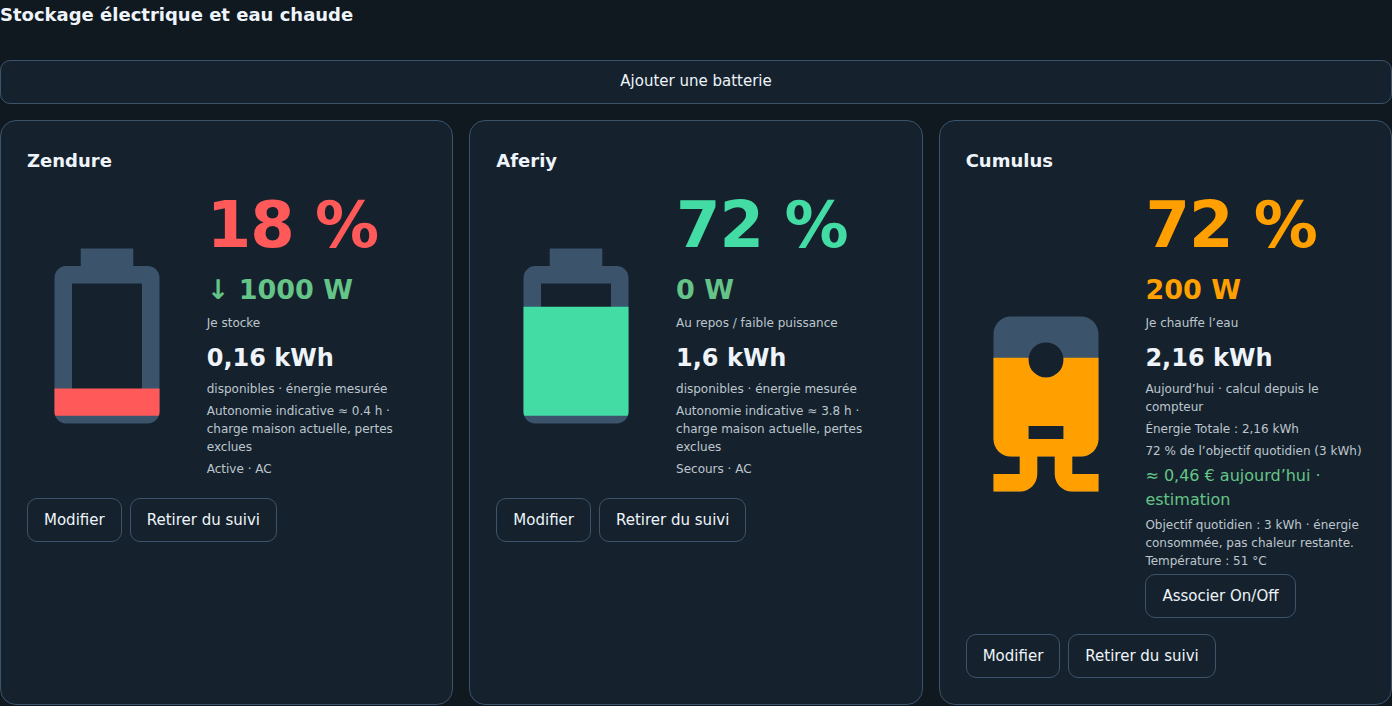
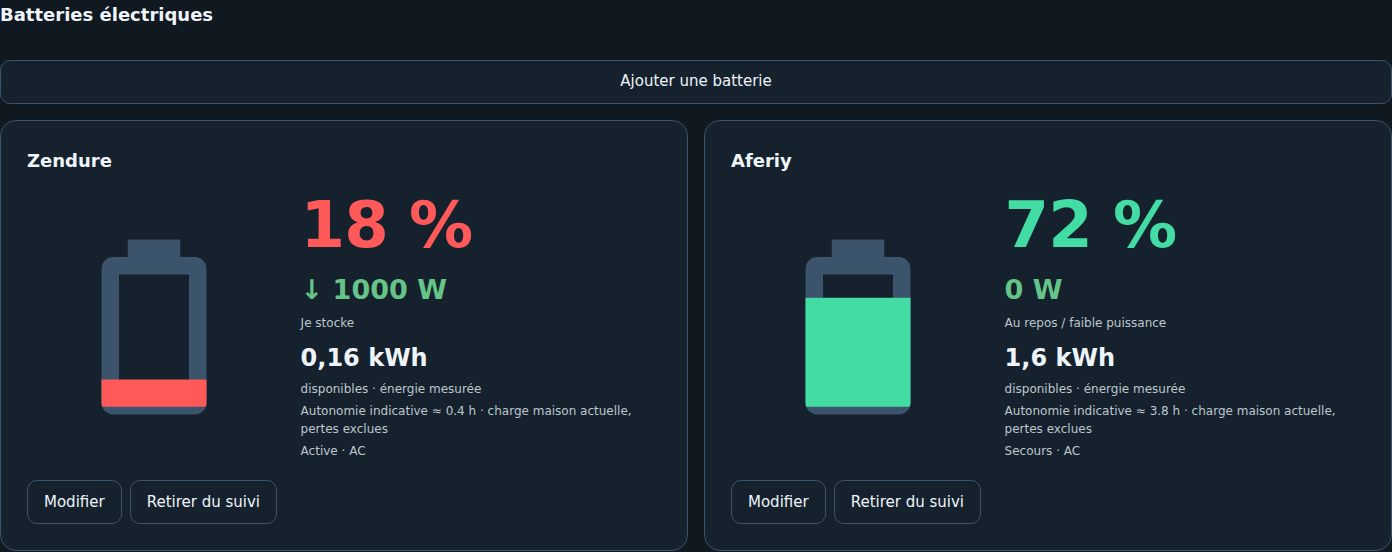
Release 0.2.5: temperature helpers and electrical-only storage
Accept input_number temperature sources with Celsius/Fahrenheit units; keep the water heater in Usages and show only electrical batteries in Storage. Python, frontend, desktop/mobile and real HA test steps passed. Release publication remains gated by the main branch package workflow.

diff --git a/tests/fixtures/panel.html b/tests/fixtures/panel.html
@@ -2,7 +2,7 @@
 <html lang="fr"><meta charset="utf-8"><meta name="viewport" content="width=device-width,initial-scale=1">
 <title>eHome EMS — fixture simulée</title><style>html{background:#101820}html,body{margin:0;min-height:100%;--primary-background-color:#101820;--primary-text-color:#eef4fa;--card-background-color:#15222d;--divider-color:#3b536b;--primary-color:#70a246;--text-primary-color:#fff}</style>
 <script>customElements.define("ehome-ems-panel",class extends HTMLElement{});</script>
-<ehome-ems-panel-0-2-4></ehome-ems-panel-0-2-4>
+<ehome-ems-panel-0-2-5></ehome-ems-panel-0-2-5>
 <script type="module">
 import "../../custom_components/ehome_ems/frontend/ehome-panel.mjs";
 const icons=await (await fetch("./mdi.json")).json();
@@ -62,7 +62,7 @@ window.fixtureHass={
  callWS:async message=>{
   window.calls.push(message);
   if(message.type==="ehome_ems/dashboard")return {
-    dashboard:structuredClone(dashboard),missing_entities:[],bindings:structuredClone(bindings),revision,flow:window.omitFlow?undefined:flow,version:"0.2.4",settings:structuredClone(settings),time_zone:"Europe/Paris",weather_entity:"weather.home",daily:{solar:"sensor.daily_pv",home:"sensor.daily_home",import:"sensor.daily_import",export:"sensor.daily_export"},tariff_eur_kwh:.215,simulation:structuredClone(simulation),simulation_history:structuredClone(simulation_history)};
+    dashboard:structuredClone(dashboard),missing_entities:[],bindings:structuredClone(bindings),revision,flow:window.omitFlow?undefined:flow,version:"0.2.5",settings:structuredClone(settings),time_zone:"Europe/Paris",weather_entity:"weather.home",daily:{solar:"sensor.daily_pv",home:"sensor.daily_home",import:"sensor.daily_import",export:"sensor.daily_export"},tariff_eur_kwh:.215,simulation:structuredClone(simulation),simulation_history:structuredClone(simulation_history)};
   if(message.type==="ehome_ems/manage_settings"){
     if(!fixtureHass.user.is_admin)throw {code:"unauthorized"};
     const key=message.identifier||"new-appliance";
@@ -119,6 +119,8 @@ window.fixtureHass={
   return {id:"simulated-copy"};
  }
 };
+fixtureHass.states["input_number.demo_water_max"]={state:"57",attributes:{unit_of_measurement:"°C",friendly_name:"Maximum eau du jour simulé"}};
+fixtureHass.states["input_number.demo_wrong_unit"]={state:"57",attributes:{unit_of_measurement:"W"}};
 fixtureHass.states["sensor.pv_source"]={state:"1500",attributes:{unit_of_measurement:"W",friendly_name:"Source solaire"}};
 fixtureHass.states["sensor.pv_alternative"]={state:"2000",attributes:{unit_of_measurement:"W",friendly_name:"Source alternative"}};
 for(const [id,value] of Object.entries({import:0,export:75,charge:1000,discharge:0,cumulus:200}))
@@ -131,7 +133,7 @@ fixtureHass.states["sensor.ac"]={state:"unavailable",attributes:{unit_of_measure
 fixtureHass.states["weather.home"]={state:"cloudy",attributes:{friendly_name:"Maison météo",temperature:16,temperature_unit:"°C",precipitation_unit:"mm",supported_features:1}};
 fixtureHass.states["switch.fridge"]={state:"on",attributes:{friendly_name:"Commande frigo simulée"}};
 for(const [id,value,unit] of [["pv_device",500,"W"],["pv_device_energy",1002.1,"kWh"],["pv_dc",550,"W"],["router_power",200,"W"]])fixtureHass.states["sensor."+id]={state:String(value),attributes:{unit_of_measurement:unit}};
-window.fixturePanel=document.querySelector("ehome-ems-panel-0-2-4");
+window.fixturePanel=document.querySelector("ehome-ems-panel-0-2-5");
 fixturePanel.hass=fixtureHass;fixturePanel.panel={config:{entry_id:"simulated",revision:"one"}};
 for(const [id,state,unit] of [["native_connection","online",""],["native_status","auto",""],["native_opening","50","%"],["native_force","0","min"],["native_power","800","W"]])fixtureHass.states["sensor."+id]={state,attributes:{unit_of_measurement:unit}};
 </script></html>

diff --git a/scripts/validate_home_assistant.py b/scripts/validate_home_assistant.py
@@ -66,11 +66,13 @@ async def validate(config_dir):
         hass.states.async_set("sensor.sim_router_power", "350", {"unit_of_measurement": "W", "device_class": "power"})
         hass.states.async_set("sensor.sim_router_energy", "1250", {"unit_of_measurement": "Wh", "device_class": "energy"})
         hass.states.async_set("switch.sim_router", "on")
+        hass.states.async_set("input_number.sim_water_max", "51", {"unit_of_measurement":"°C"})
         result = await hass.config_entries.flow.async_configure(flow_id, {"next_step_id": "add_usage"})
         json.dumps(to_field_list(result["data_schema"], custom_serializer=cv.custom_serializer))
         result = await hass.config_entries.flow.async_configure(flow_id, {
             "name": "Simulated router", "kind": "solar_router", "power": "sensor.sim_router_power",
             "energy": "sensor.sim_router_energy", "energy_period": "today", "status": "switch.sim_router",
+            "temperature": "input_number.sim_water_max",
             "included_in_home": True,
         })
         assert result["step_id"] == "usages", result
@@ -123,6 +125,17 @@ async def validate(config_dir):
         assert float(mirror(f"usage_{appliance_id}_energy")[1].state) == .8
         assert entry.data["daily"]["home"] == "sensor.sim_fridge_day"
         router_id = next(key for key, usage in entry.data["usages"].items() if usage["kind"] == "solar_router")
+        temp_id, temp = mirror(f"usage_{router_id}_temperature")
+        assert float(temp.state) == 51
+        hass.states.async_set("input_number.sim_water_max", "140", {"unit_of_measurement":"°F"})
+        await hass.async_block_till_done()
+        assert float(hass.states.get(temp_id).state) == 60
+        hass.states.async_set("input_number.sim_water_max", "unavailable", {"unit_of_measurement":"°C"})
+        await hass.async_block_till_done()
+        assert hass.states.get(temp_id).state == "unavailable"
+        hass.states.async_set("input_number.sim_water_max", "52", {"unit_of_measurement":"°C"})
+        await hass.async_block_till_done()
+        assert float(hass.states.get(temp_id).state) == 52
         router_energy_id, router_energy = mirror(f"usage_{router_id}_energy")
         assert float(router_energy.state) == 1.25
         assert router_energy.attributes["energy_period"] == "today"
@@ -262,7 +275,7 @@ async def validate(config_dir):
                 await hass.async_block_till_done()
                 preserved = await command({"type": "lovelace/config", "url_path": copy_path})
                 assert preserved["title"] == "Preserved custom title"
-                asset = await session.get(f"http://127.0.0.1:{port}/ehome_ems_panel_0.2.4.js")
+                asset = await session.get(f"http://127.0.0.1:{port}/ehome_ems_panel_0.2.5.js")
                 assert asset.status == 200
                 assert "javascript" in asset.headers.get("Content-Type", "")
                 assert "ehome-ems-panel" in await asset.text()
@@ -277,9 +290,9 @@ async def validate(config_dir):
                 assert await house_asset.read() == (ROOT / "custom_components/ehome_ems/frontend/assets/house.webp").read_bytes()
                 snapshot = await command({"type": "ehome_ems/dashboard", "entry_id": entry.entry_id})
                 assert solar_id in snapshot["bindings"]
-                assert snapshot["version"] == "0.2.4"
-                assert PANEL_TAG == "ehome-ems-panel-0-2-4"
-                assert PANEL_URL == "/ehome_ems_panel_0.2.4.js"
+                assert snapshot["version"] == "0.2.5"
+                assert PANEL_TAG == "ehome-ems-panel-0-2-5"
+                assert PANEL_URL == "/ehome_ems_panel_0.2.5.js"
                 assert snapshot["flow"]["entities"]["solar_power"] == solar_id
                 hass.states.async_set("sensor.sim_pv_new", "2.1", {"unit_of_measurement": "kW", "device_class": "power"})
                 old_revision = snapshot["revision"]

diff --git a/tests/test_settings.py b/tests/test_settings.py
@@ -31,6 +31,21 @@ class SettingsTests(TestCase):
     def save(self,section,values,identifier=None,action='save',revision=None):
         return settings.update_settings(self.hass,self.entry,section,action,values,identifier,revision or self.entry.modified_at.isoformat())
 
+    def test_usage_temperature_helper_preserves_id_and_requires_temperature_unit(self):
+        self.states['input_number.demo_water_max']=state('57','°C')
+        data={'name':'Water heater','kind':'water_heater','power':'sensor.other','temperature':'input_number.demo_water_max','included_in_home':True}
+        result=self.save('usages',data)
+        identifier=result['identifier']
+        self.assertEqual(self.entry.options['usages'][identifier]['temperature'],'input_number.demo_water_max')
+        self.states['input_number.demo_water_max'].attributes['unit_of_measurement']='°F'
+        self.save('usages',data,identifier)
+        self.assertEqual(len(self.entry.options['usages']),1)
+        self.states['input_number.demo_water_max'].attributes['unit_of_measurement']='W'
+        with self.assertRaises(settings.SettingsError):self.save('usages',data,identifier)
+        self.states['input_number.demo_water_max'].attributes.pop('unit_of_measurement')
+        with self.assertRaises(settings.SettingsError):self.save('usages',data,identifier)
+        with self.assertRaises(settings.SettingsError):self.save('solar',{'solar_power':'input_number.demo_water_max'})
+
     def test_daily_goal_tolerance_and_manual_control_are_explicit_and_preserved(self):
         self.states['switch.load']=state('off',None)
         result=self.save('appliances',{'name':'Load','power':'sensor.fridge','included_in_home':True,'daily_energy_goal_kwh':3,'negative_power_tolerance_w':5,'control_entity':'switch.load','control_enabled':True})

diff --git a/tests/test_source_editor.py b/tests/test_source_editor.py
@@ -45,6 +45,14 @@ class SourceEditorTests(TestCase):
         helper.dashboard_snapshot = lambda *args: {"bindings": self.editor.binding_metadata(
             self.entry.options or self.entry.data, {"solar_power": "sensor.mirror", "home_power": "sensor.home_mirror"})}
 
+    def test_temperature_remapping_offers_helpers_without_expanding_power_domains(self):
+        mapping={'usages':{'h':{'name':'Water heater','temperature':'sensor.water'}}}
+        metadata=self.editor.binding_metadata(mapping,{'usage_h_temperature':'sensor.mirror'})
+        self.assertEqual(metadata['sensor.mirror']['domains'],['sensor','input_number'])
+        self.assertEqual(metadata['sensor.mirror']['units'],['°C','°F'])
+        power=self.editor.binding_metadata({'home_power':'sensor.home'},{'home_power':'sensor.power'})
+        self.assertEqual(power['sensor.power']['domains'],['sensor'])
+
     def remap(self, source="sensor.new", revision=None, expected="sensor.old", mirror="sensor.mirror"):
         return self.editor.remap_source(self.hass, self.entry, mirror, source, expected,
                                         revision or self.entry.modified_at.isoformat())

diff --git a/custom_components/ehome_ems/config_flow.py b/custom_components/ehome_ems/config_flow.py
@@ -100,9 +100,9 @@ def usage_schema(existing):
         vol.Required("included_in_home", default=existing.get("included_in_home", False)): bool,
     }
     for key in USAGE_SOURCES:
-        config = {"domain": ["sensor", "binary_sensor", "switch", "select"]} if key == "status" else {
-            "domain": "sensor", "device_class": "power" if key == "power" else "temperature" if key == "temperature" else "energy"
-        }
+        config = ({"domain": ["sensor", "binary_sensor", "switch", "select"]} if key == "status" else
+                  {"domain": ["sensor", "input_number"]} if key == "temperature" else
+                  {"domain": "sensor", "device_class": "power" if key == "power" else "energy"})
         schema[vol.Optional(key, description={"suggested_value": existing[key]} if existing.get(key) else None)] = (
             selector.EntitySelector(selector.EntitySelectorConfig(**config))
         )

diff --git a/custom_components/ehome_ems/settings.py b/custom_components/ehome_ems/settings.py
@@ -108,8 +108,9 @@ def update_settings(hass, entry, section, action, values, identifier, revision):
         raise SettingsError("invalid_settings") from error
     # Only entity strings or empty slots can reach the registry.
     from .config_flow import source_items
-    for _, source, _ in source_items(candidate):
-        if source is not None and (not isinstance(source, str) or not source.startswith(("sensor.", "binary_sensor.", "switch.", "select."))):
+    for _, source, role in source_items(candidate):
+        domains = ("sensor.", "binary_sensor.", "switch.", "select.") + (("input_number.",) if role == "usage_temperature" else ())
+        if source is not None and (not isinstance(source, str) or not source.startswith(domains)):
             raise SettingsError("invalid_source")
     validator = PowerWizard()
     validator.hass = hass

diff --git a/custom_components/ehome_ems/source_editor.py b/custom_components/ehome_ems/source_editor.py
@@ -33,7 +33,8 @@ def binding_metadata(mapping, entities):
         if suffix not in entities:
             continue
         units = ["°C", "°F"] if role == "temperature" else ["%"] if role == "soc" else ["Wh", "kWh"] if role in ("remaining_energy", "energy") else ["W", "kW"]
-        domains = ["sensor", "binary_sensor", "switch", "select"] if role == "status" else ["sensor"]
+        domains = (["sensor", "binary_sensor", "switch", "select"] if role == "status" else
+                   ["sensor", "input_number"] if role == "temperature" else ["sensor"])
         bindings[entities[suffix]] = {
             "source": source_value(mapping, path), "domains": domains,
             "units": [] if role == "status" else units,

diff --git a/tests/test_dashboard_service.py b/tests/test_dashboard_service.py
@@ -59,7 +59,7 @@ class DashboardServiceTests(IsolatedAsyncioTestCase):
         self.assertIn("sensor.renamed", str(result))
         self.assertEqual(result["dashboard"]["views"][0]["title"], "Overview")
         self.assertEqual(self.entry.data, {"home_power": "sensor.source"})
-        self.assertEqual(result["version"], "0.2.4")
+        self.assertEqual(result["version"], "0.2.5")
         self.assertEqual(result["managed_url"], "/ehome-ems-entry")
         self.assertIn("/ehome-ems-entry", result["dashboard"]["views"][0]["cards"][0]["content"])
 

diff --git a/tests/test_config_flow.py b/tests/test_config_flow.py
@@ -38,7 +38,7 @@ class SelectorDouble:
         self.config = config
 
     def __call__(self, value):
-        if not isinstance(value, str) or not value.startswith(("sensor.", "binary_sensor.", "switch.", "select.")):
+        if not isinstance(value, str) or not value.startswith(("sensor.", "binary_sensor.", "switch.", "select.", "input_number.")):
             raise ValueError(value)
         return value
 

diff --git a/custom_components/ehome_ems/const.py b/custom_components/ehome_ems/const.py
@@ -1,6 +1,6 @@
 """Constants for eHome EMS."""
 DOMAIN = "ehome_ems"
-VERSION = "0.2.4"
+VERSION = "0.2.5"
 CONF_GRID_POWER = "grid_power"
 CONF_GRID_IMPORT = "grid_import"
 CONF_GRID_EXPORT = "grid_export"

diff --git a/docs/INSTALLATION.md b/docs/INSTALLATION.md
@@ -1,4 +1,4 @@
-# Installer et mettre à jour eHome EMS 0.2.4
+# Installer et mettre à jour eHome EMS 0.2.5
 
 L'intégration utilise votre Home Assistant et les entités de vos équipements déjà intégrés. Aucun serveur supplémentaire n'est nécessaire. Le dépôt est public ; son ajout comme dépôt personnalisé HACS / Marketplace ne constitue pas une validation officielle au catalogue.
 
@@ -12,7 +12,7 @@ L'intégration utilise votre Home Assistant et les entités de vos équipements 
 ## HACS / Marketplace
 
 1. Ajouter `https://github.com/eHomeLabs/ehome-ems` aux dépôts personnalisés, catégorie **Intégration**.
-2. Installer la version **0.2.4** depuis la [release](https://github.com/eHomeLabs/ehome-ems/releases/tag/v0.2.4).
+2. Installer la version **0.2.5** depuis la [release](https://github.com/eHomeLabs/ehome-ems/releases/tag/v0.2.5).
 3. À la première installation ou après remplacement du code Python, redémarrer **Home Assistant Core** une fois. Aucun redémarrage du système hôte n'est demandé.
 4. Ouvrir **Paramètres → Appareils et services → Ajouter une intégration → eHome EMS**.
 5. Parcourir l'assistant : réseau, solaire, Conso Maison, batteries, usages, appareils et compteurs du jour. Vérifier les mesures puis confirmer en dernière position.
@@ -20,11 +20,11 @@ L'intégration utilise votre Home Assistant et les entités de vos équipements 
 
 ## Installation manuelle
 
-Télécharger `ehome-ems-0.2.4.zip` et son fichier `.sha256` depuis la release. Extraire le dossier `custom_components/ehome_ems` dans `/config/custom_components/ehome_ems`, vérifier `manifest.json` puis redémarrer HA Core. Ne pas créer un second niveau de dossier `ehome_ems/ehome_ems`.
+Télécharger `ehome-ems-0.2.5.zip` et son fichier `.sha256` depuis la release. Extraire le dossier `custom_components/ehome_ems` dans `/config/custom_components/ehome_ems`, vérifier `manifest.json` puis redémarrer HA Core. Ne pas créer un second niveau de dossier `ehome_ems/ehome_ems`.
 
 ## Migrer depuis la b15
 
-Mettre à jour les fichiers sans supprimer l'entrée existante : les associations et identifiants restent conservés. Redémarrer HA Core pour charger le code, puis recharger le navigateur. Dans **Configuration**, vérifier que les versions Interface et Intégration indiquent toutes deux **0.2.4**.
+Mettre à jour les fichiers sans supprimer l'entrée existante : les associations et identifiants restent conservés. Redémarrer HA Core pour charger le code, puis recharger le navigateur. Dans **Configuration**, vérifier que les versions Interface et Intégration indiquent toutes deux **0.2.5**.
 
 ## Quand faut-il redémarrer ?
 
@@ -40,14 +40,18 @@ Recharger une entrée HA ne remplace pas les modules Python déjà chargés. Les
 
 ## Retour arrière
 
-Conserver la sauvegarde et la release précédente. Si nécessaire, réinstaller les fichiers de la version 0.2.3 puis redémarrer HA Core et recharger le navigateur. Si un format de configuration a changé dans une future version, utiliser une sauvegarde compatible ; la 0.2.4 lit les associations existantes et ajoute des champs facultatifs. Ne pas supprimer l'intégration pour un simple rafraîchissement du panneau.
+Conserver la sauvegarde et la release précédente. Si nécessaire, réinstaller les fichiers de la version 0.2.4 puis redémarrer HA Core et recharger le navigateur. Si un format de configuration a changé dans une future version, utiliser une sauvegarde compatible ; la 0.2.5 lit les associations existantes et ajoute des champs facultatifs. Ne pas supprimer l'intégration pour un simple rafraîchissement du panneau.
 
 ![Raccourcis de configuration](screenshots/configuration.png)
 
 [Assistant](VALIDATION_ASSISTANT.md) · [Dépannage](wiki/09-Depannage.md) · [README](../README.md)
 
-## Nouveau : F1ATB HTTP natif (0.2.4)
+## Nouveau : F1ATB HTTP natif (0.2.5)
 
 Après la mise à jour, redémarrer **Home Assistant Core une seule fois** pour charger les nouveaux modules Python, puis recharger le navigateur. Conserver l’entrée et les associations existantes. Les usages MQTT existants restent en MQTT ; aucune commande n’est activée automatiquement.
 
 Dans **Usages → Ajouter un usage → Routeur solaire → F1ATB**, choisir **HTTP local direct**, saisir l’IP, cliquer **Lire le routeur et ses actions** puis sélectionner l’action. Enregistrer crée le suivi sans commande. Activer les commandes HTTP manuelles seulement si souhaité. [Guide complet](ROUTEUR_F1ATB.md).
+
+## Température du cumulus et Stockage (0.2.5)
+
+Dans **Usages → Modifier le cumulus**, le champ Température accepte les domaines `sensor` et `input_number`. Définir l’unité **°C** ou **°F** dans l’aide numérique Home Assistant ; aucune unité n’est supposée lorsqu’elle est absente. Un maximum du jour reste la valeur maximale choisie, pas une mesure instantanée. Stockage affiche uniquement les batteries électriques ; les associations du cumulus restent dans Usages.

diff --git a/README.md b/README.md
@@ -6,9 +6,9 @@
 
 Une intégration Home Assistant pour comprendre la production solaire, la consommation réelle de la maison, les échanges réseau, le stockage et les appareils. Elle utilise les entités déjà présentes dans HA et fournit son panneau sans YAML à recopier.
 
-**[Version 0.2.4](https://github.com/eHomeLabs/ehome-ems/releases/tag/v0.2.4)** — support natif du routeur F1ATB par HTTP local, sans intégration supplémentaire : lecture des actions, mesures et commandes manuelles. Le mode MQTT existant est conservé ; le pilotage automatique reste futur.
+**[Version 0.2.5](https://github.com/eHomeLabs/ehome-ems/releases/tag/v0.2.5)** — températures d’usages depuis un capteur ou une aide `input_number` en °C/°F. Stockage est réservé aux batteries électriques ; le cumulus reste dans Usages. Le support F1ATB HTTP/MQTT et les commandes manuelles sont conservés.
 
-[Installer](docs/INSTALLATION.md) · [Wiki illustré](docs/wiki/Home.md) · [Conso Maison](docs/CONSOMMATION_MAISON.md) · [Notes 0.2.4](docs/RELEASE_0_2_4.md) · [Feuille de route](docs/ROADMAP.md)
+[Installer](docs/INSTALLATION.md) · [Wiki illustré](docs/wiki/Home.md) · [Conso Maison](docs/CONSOMMATION_MAISON.md) · [Notes 0.2.5](docs/RELEASE_0_2_5.md) · [Feuille de route](docs/ROADMAP.md)
 
 ## Découvrir le dashboard
 
@@ -80,7 +80,7 @@ Les raccourcis ouvrent directement chaque groupe de réglages. Les mesures valid
 
 ## Installation et mises à jour
 
-Home Assistant **2026.9.1 minimum**. Ajouter `https://github.com/eHomeLabs/ehome-ems` comme dépôt personnalisé HACS / Marketplace, catégorie **Intégration**, puis installer **0.2.4**. L'installation par dépôt personnalisé ne signifie pas validation officielle au catalogue.
+Home Assistant **2026.9.1 minimum**. Ajouter `https://github.com/eHomeLabs/ehome-ems` comme dépôt personnalisé HACS / Marketplace, catégorie **Intégration**, puis installer **0.2.5**. L'installation par dépôt personnalisé ne signifie pas validation officielle au catalogue.
 
 **Première installation ou nouveau code Python :** redémarrer Home Assistant Core, puis ajouter l'intégration ou recharger le navigateur après mise à jour. **Réglages courants :** enregistrer suffit, sans redémarrage global. Recharger seulement l'entrée ne remplace pas les modules Python déjà chargés.
 
@@ -100,7 +100,7 @@ Depuis la b15, conserver l'entrée et ses associations. Aucun serveur supplémen
 | 8 | Stratégie |
 | 9 | Configuration |
 
-| Disponible en 0.2.4 | Suite du projet |
+| Disponible en 0.2.5 | Suite du projet |
 | --- | --- |
 | Assistant et réglages ciblés, normalisation et bilan AC | Topologies hybrides/DC avancées |
 | Flux, tendances, historique 24 h, stockage et appareils | Analyses historiques et comparaisons |
@@ -128,7 +128,7 @@ La CI contrôle les calculs, les paramètres, le cycle reload/unload, le navigat
 - Libellé uniforme **Tendance sur 15 mn** ; flèche horizontale si les données sont insuffisantes. Le calcul compare des moyennes de quarts d’heure, avec historique récent disponible.
 - Petites puissances négatives d’un appareil corrigées en 0 W dans une tolérance configurable, **5 W par défaut**. La valeur brute et l’indication de correction restent dans les attributs du capteur EMS. La source originale, le réseau signé et le calcul Maison ne sont pas modifiés. Une valeur sous la tolérance reste indisponible.
 - Dans **Modifier** un appareil ou usage : choisir une **Entité de commande On/Off** puis cocher **Activer la commande manuelle**. Domaines pris en charge : switch, input_boolean, light et fan. Les boutons affichent l’état réel HA ; un clic administrateur envoie l’action opposée. Aucun capteur de puissance n’est transformé en actionneur.
-- Configurer l’**Objectif énergie quotidien (kWh)** depuis Usages ou Modifier le cumulus dans Stockage. **2,16 kWh / 3 kWh = 72 %**. La silhouette est remplie selon cet objectif ; la température reste indiquée séparément. Ce pourcentage représente l’énergie consommée aujourd’hui, **pas la chaleur restante**, ni le SOC d’une batterie. Le remplissage sature à 100 %, mais le pourcentage affiché peut dépasser l’objectif.
+- Configurer l’**Objectif énergie quotidien (kWh)** depuis Modifier le cumulus dans Usages. **2,16 kWh / 3 kWh = 72 %**. La silhouette est remplie selon cet objectif ; la température reste indiquée séparément. Ce pourcentage représente l’énergie consommée aujourd’hui, **pas la chaleur restante**, ni le SOC d’une batterie. Le remplissage sature à 100 %, mais le pourcentage affiché peut dépasser l’objectif.
 
 [Notes et configuration de la 0.2.3](docs/RELEASE_0_2_3.md)
 
